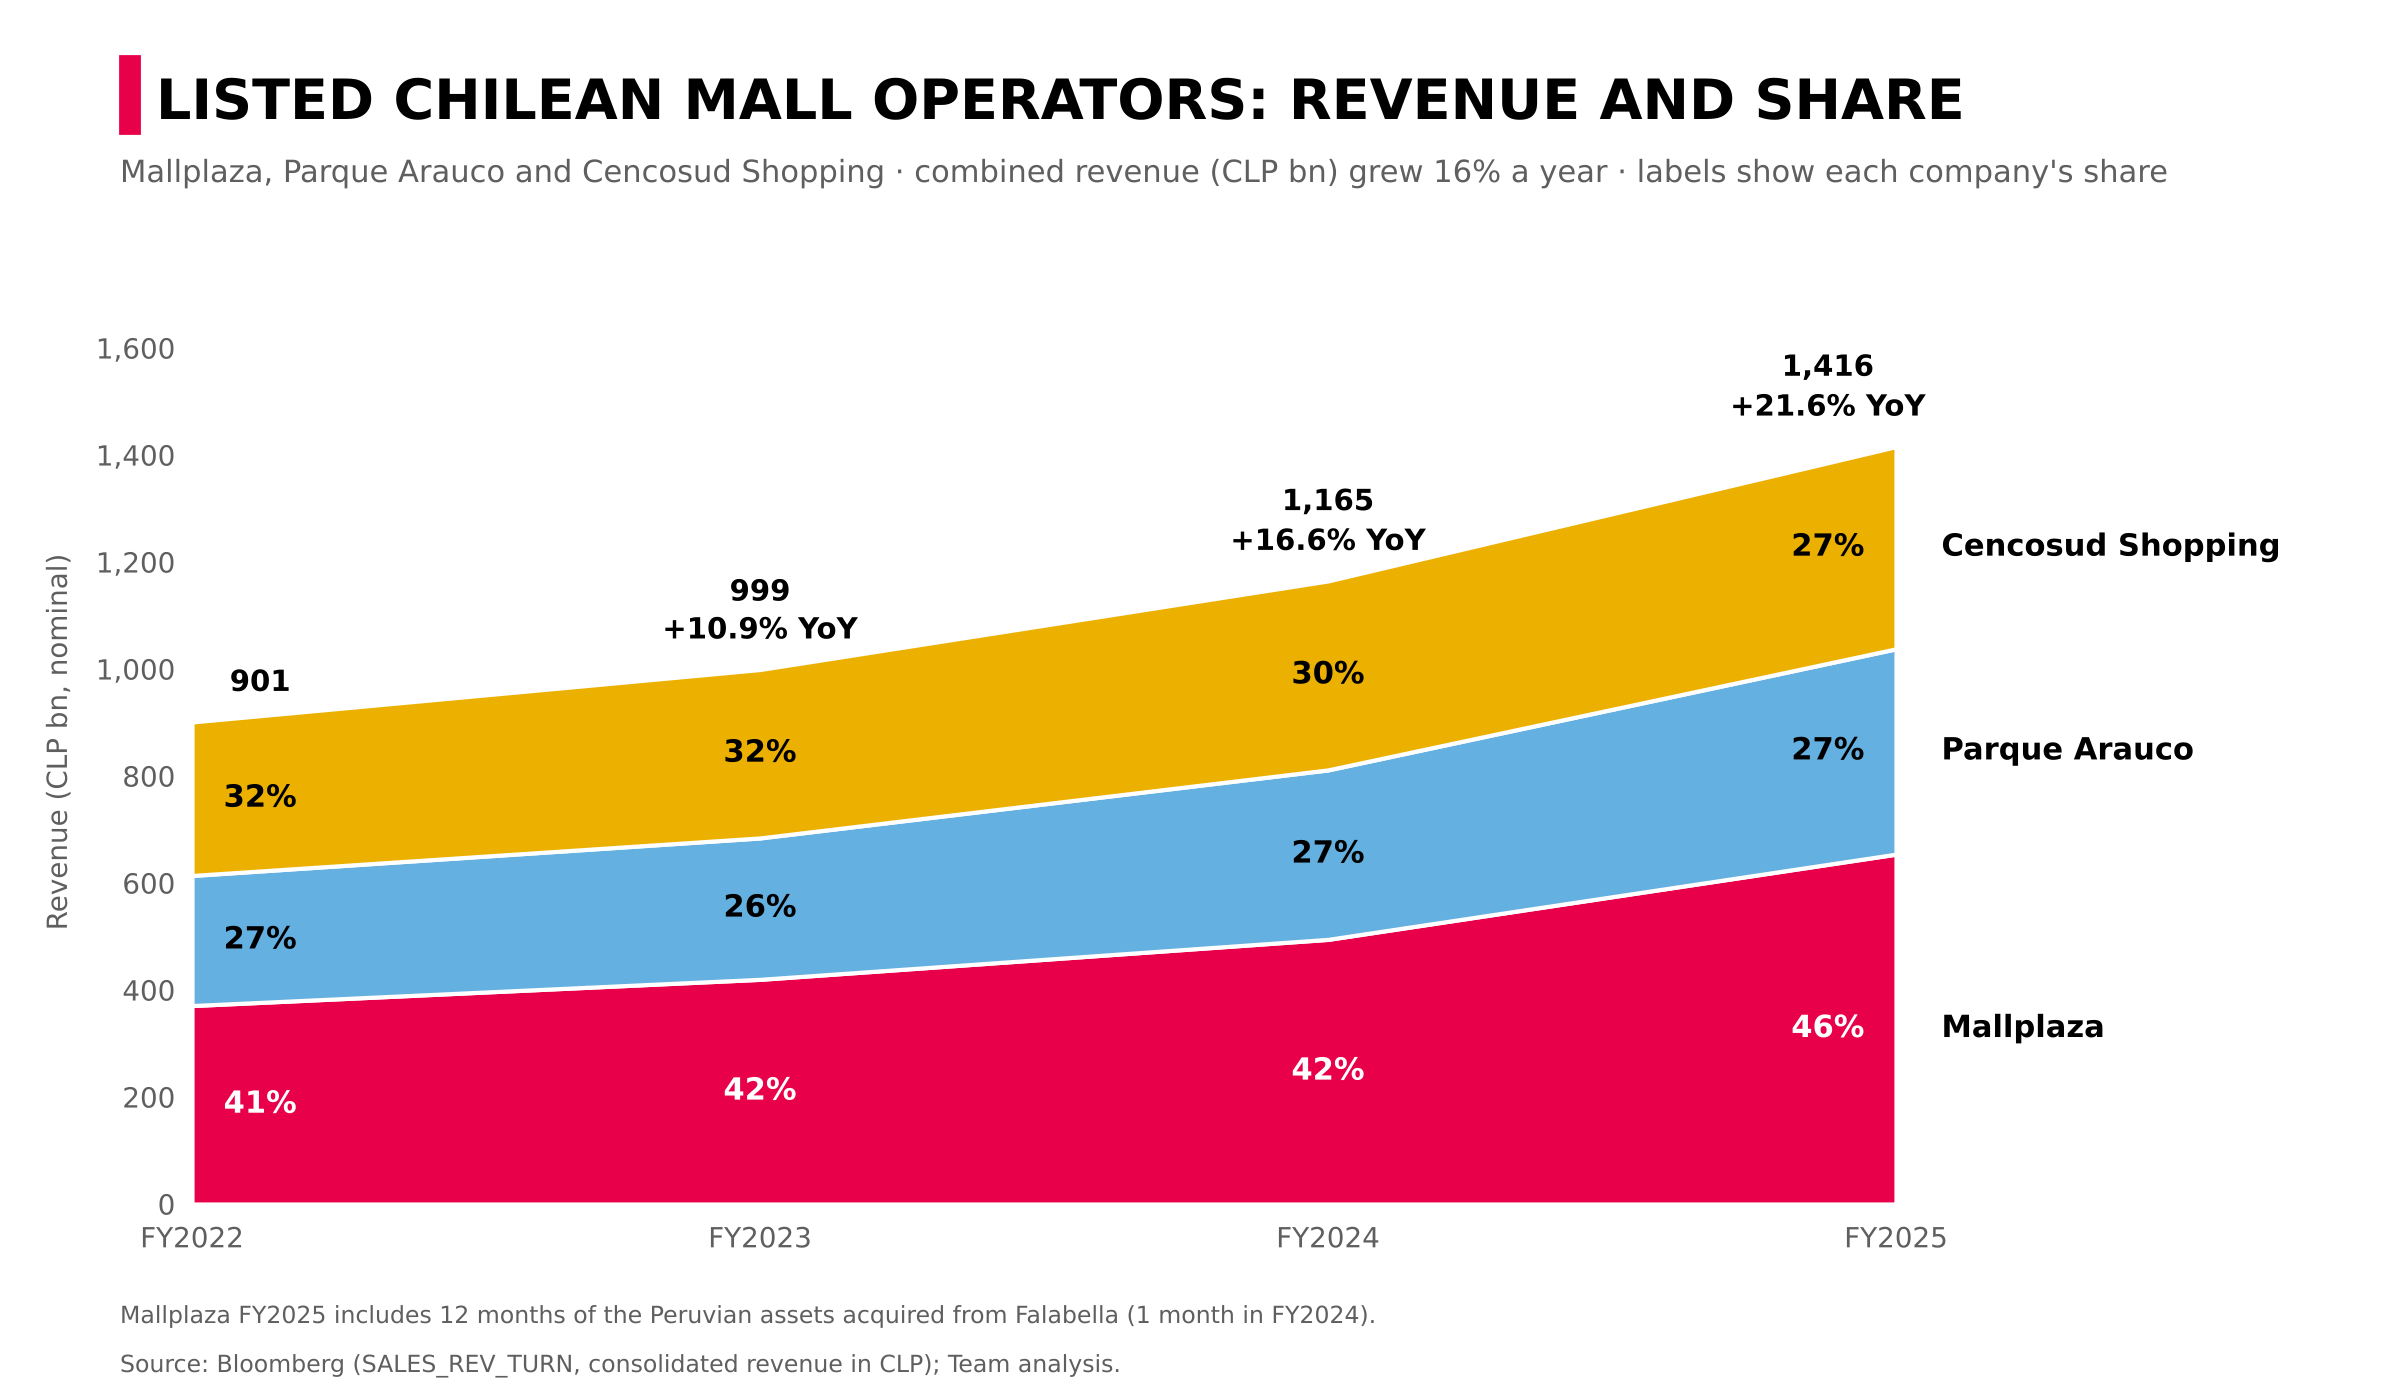
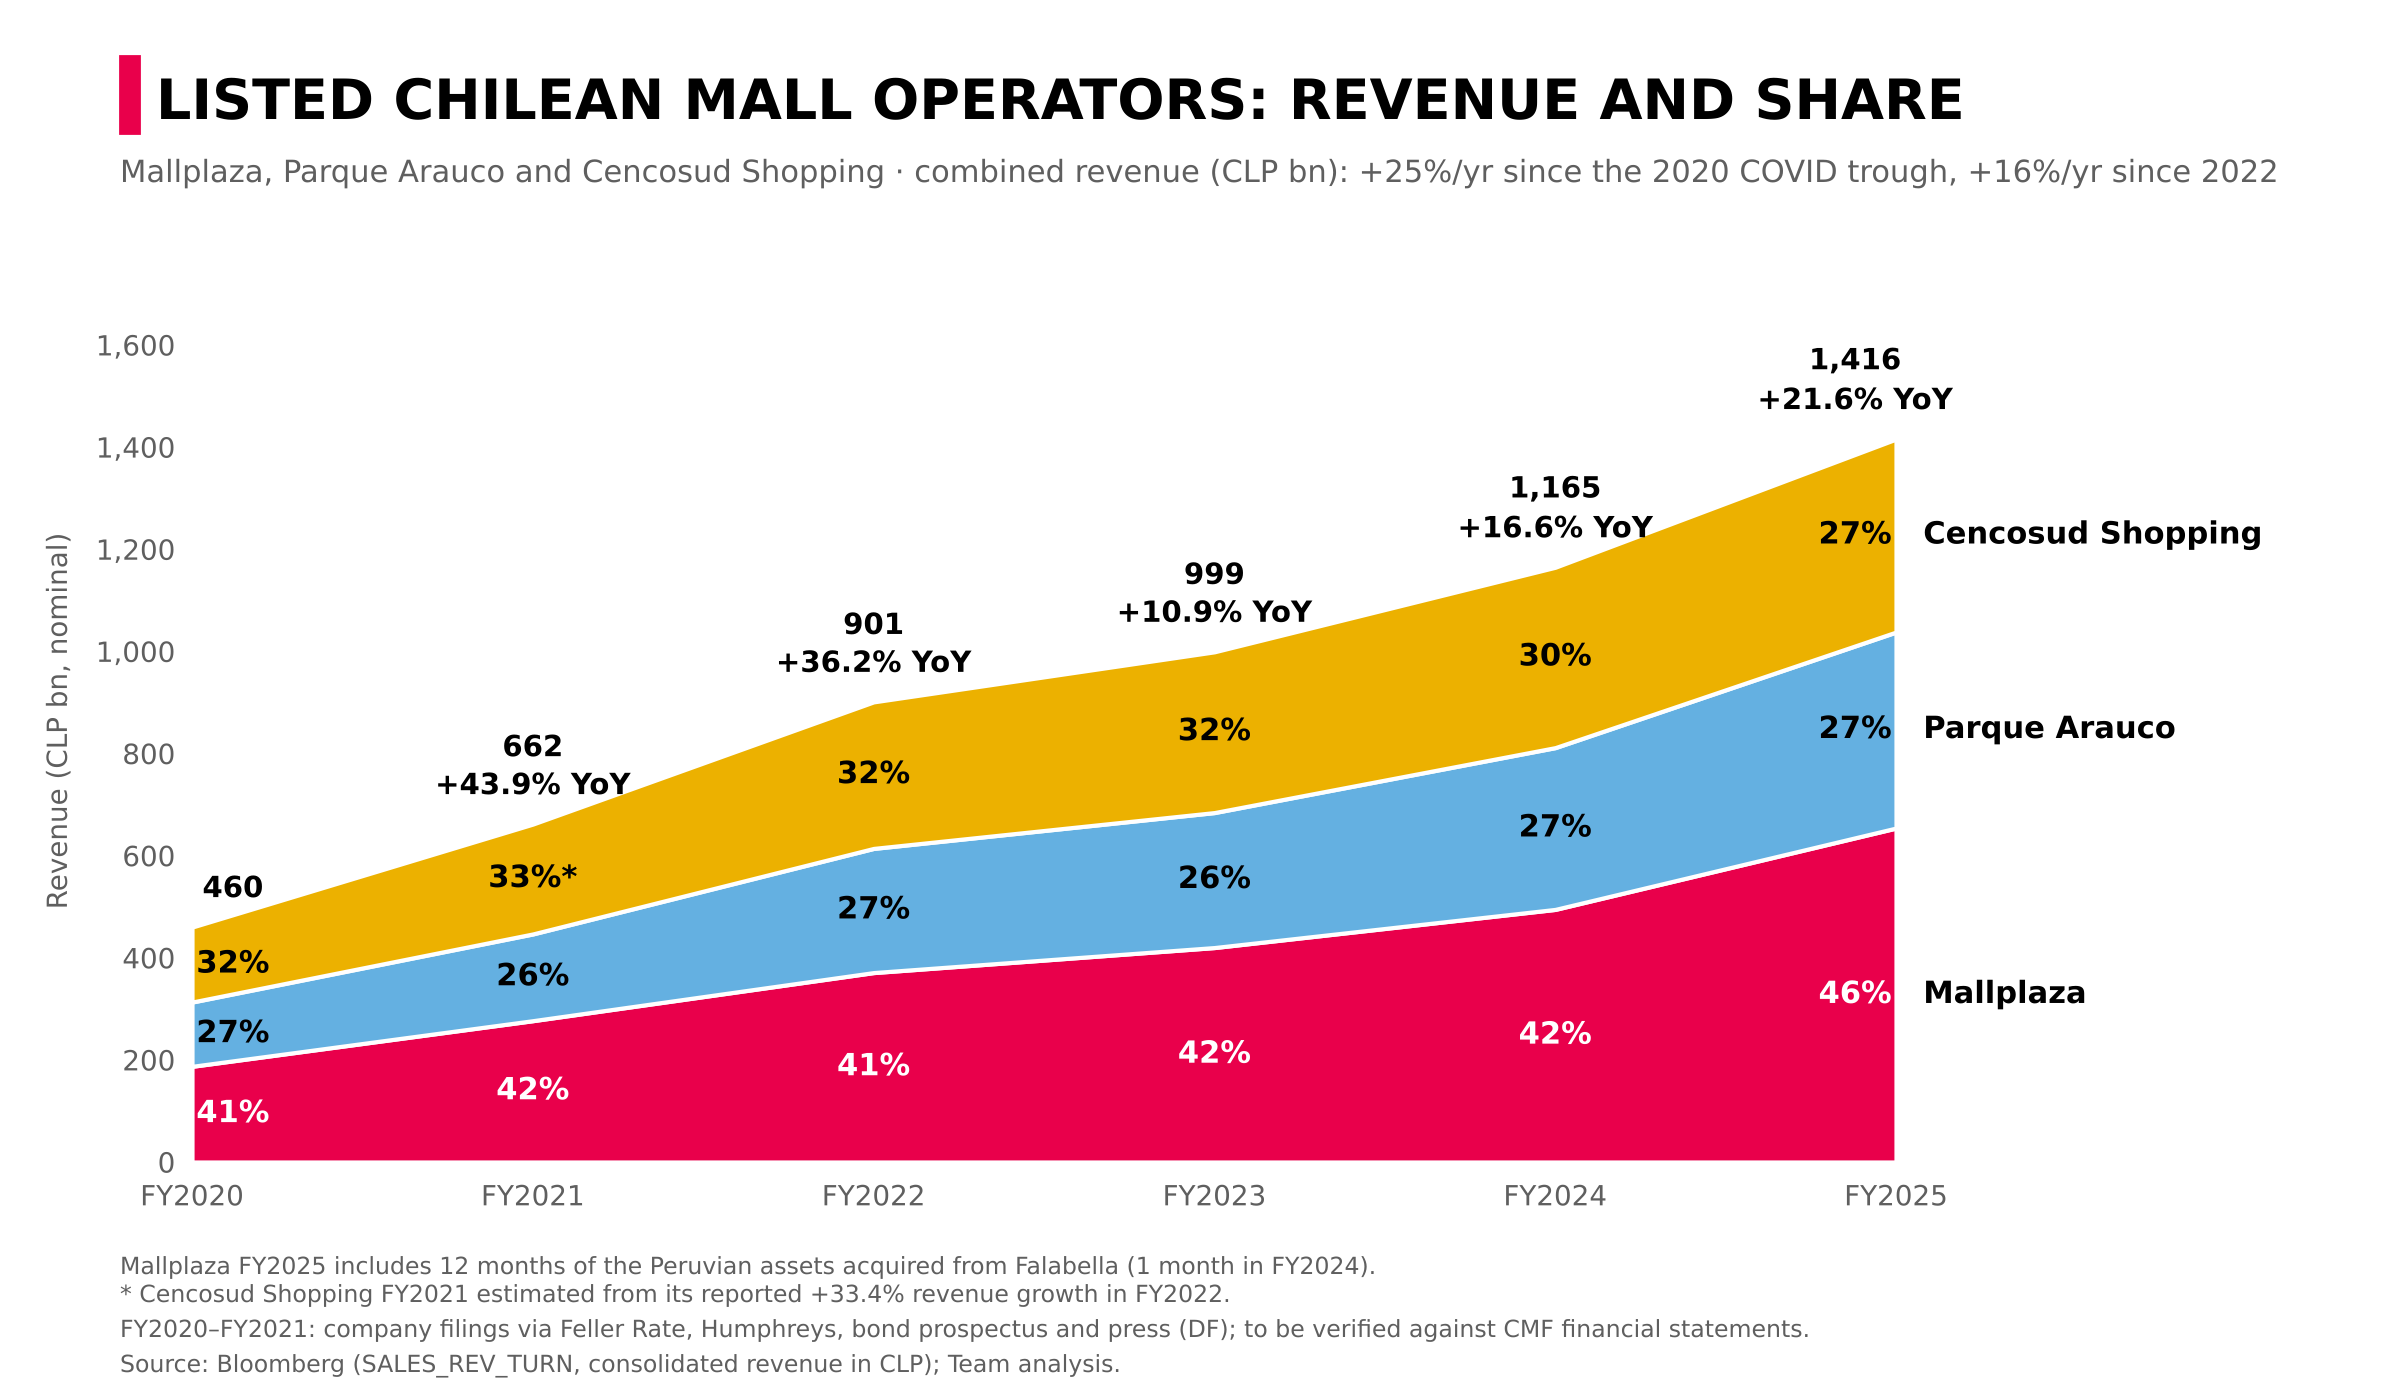
Extend mall operator revenue chart to FY2020-FY2021 with sourced public figures
Cencosud Shopping FY2021 is estimated from its reported FY2022 growth and flagged.

Claude-Session: https://claude.ai/code/session_0188QZHBkA8n5QL7BtmFakQg

diff --git a/graficos/cuota_mercado.py b/graficos/cuota_mercado.py
@@ -1,5 +1,6 @@
-"""Área apilada 100%: participación de Mallplaza, Parque Arauco y Cencosud Shopping en los
-ingresos combinados de los tres operadores listados chilenos (Bloomberg, FY2022–FY2025).
+"""Área apilada: ingresos combinados de Mallplaza, Parque Arauco y Cencosud Shopping y la
+participación de cada uno (FY2020–FY2025). FY2022–FY2025 de Bloomberg; FY2020–FY2021 de fuentes
+públicas (ver EXTERNOS).
 
 Uso:
     python graficos/cuota_mercado.py <Comparables_..._valoracion.xlsx> [salida.png]
@@ -16,6 +17,23 @@ from sensibilidad_wacc import AMARILLO, CELESTE, NEGRO, ROJO, TINTA_SECUNDARIA
 EMPRESAS = [("Mallplaza", ROJO, "white"), ("Parque Arauco", CELESTE, NEGRO),
             ("Cencosud Shopping", AMARILLO, NEGRO)]
 
+# Ingresos consolidados (MM CLP) que no están en el libro Bloomberg. Verificar contra los EEFF (CMF).
+EXTERNOS = {
+    "Mallplaza": {
+        2020: 187_329,  # Tabla de EERR IFRS en documento de bonos de Plaza S.A. (2019: 309.598; −39,5%)
+        2021: 276_695,  # Mallplaza_FA_Exhibits_v6.xlsx, Inputs rev21 (Bloomberg FA)
+    },
+    "Parque Arauco": {
+        2020: 125_852,  # Prensa (DF) citando reporte a la CMF; −38,8% vs 2019
+        2021: 169_859,  # Prensa (DF) citando reporte a la CMF; +35% vs 2020
+    },
+    "Cencosud Shopping": {
+        2020: 146_755,  # Feller Rate y Humphreys (−35,9% vs 2019: 228.990)
+        2021: round(286_949.855 / 1.334),  # Estimado: FY2022 (EEFF) / 1,334 (+33,4% informado en prensa)
+    },
+}
+ESTIMADOS = {("Cencosud Shopping", 2021)}
+
 
 def leer(ruta):
     ws = openpyxl.load_workbook(ruta, data_only=True)["Datos_BBG"]
@@ -24,6 +42,9 @@ def leer(ruta):
         nombre, periodo = ws.cell(r, 1).value, ws.cell(r, 6).value
         if nombre in dict((e[0], 1) for e in EMPRESAS) and str(periodo).startswith("FY"):
             ingresos.setdefault(nombre, {})[int(str(periodo)[2:6])] = ws.cell(r, 7).value
+    for nombre, datos in EXTERNOS.items():
+        for año, valor in datos.items():
+            ingresos[nombre].setdefault(año, valor)
     años = sorted(set.intersection(*(set(v) for v in ingresos.values())))
     return años, np.array([[ingresos[e[0]][a] for a in años] for e in EMPRESAS])
 
@@ -34,6 +55,7 @@ def graficar(ruta, salida):
 
     total = ing.sum(axis=0) / 1000  # MM CLP -> miles de millones (CLP bn)
     cagr = (total[-1] / total[0]) ** (1 / (len(años) - 1)) - 1
+    cagr_post = (total[-1] / total[años.index(2022)]) ** (1 / (años[-1] - 2022)) - 1
 
     plt.rcParams.update({"font.family": "DejaVu Sans", "font.size": 10})
     fig = plt.figure(figsize=(12, 7), dpi=200)
@@ -41,18 +63,19 @@ def graficar(ruta, salida):
     fig.add_artist(Rectangle((0.05, 0.905), 0.008, 0.055, color=ROJO, transform=fig.transFigure))
     fig.text(0.065, 0.915, "LISTED CHILEAN MALL OPERATORS: REVENUE AND SHARE", fontsize=20,
              fontweight="bold", color=NEGRO)
-    fig.text(0.05, 0.87, f"Mallplaza, Parque Arauco and Cencosud Shopping · combined revenue (CLP bn) "
-             f"grew {cagr:.0%} a year · labels show each company's share",
+    fig.text(0.05, 0.87, f"Mallplaza, Parque Arauco and Cencosud Shopping · combined revenue (CLP bn): "
+             f"+{cagr:.0%}/yr since the 2020 COVID trough, +{cagr_post:.0%}/yr since 2022",
              fontsize=11, color=TINTA_SECUNDARIA)
 
-    ax = fig.add_axes([0.08, 0.14, 0.71, 0.66])
+    ax = fig.add_axes([0.08, 0.17, 0.71, 0.63])
     capas = ing / 1000
     ax.stackplot(años, capas, colors=[e[1] for e in EMPRESAS], edgecolor="white", linewidth=1.5)
     base = np.zeros(len(años))
     for (nombre, color, texto), fila, cuota_fila in zip(EMPRESAS, capas, cuota):
         for x, b, v, c in zip(años, base, fila, cuota_fila):
             dx = 0.12 if x == años[0] else -0.12 if x == años[-1] else 0
-            ax.text(x + dx, b + v / 2, f"{c:.0%}", ha="center", va="center", fontsize=11,
+            marca = "*" if (nombre, x) in ESTIMADOS else ""
+            ax.text(x + dx, b + v / 2, f"{c:.0%}{marca}", ha="center", va="center", fontsize=11,
                     fontweight="bold", color=texto)
         ax.text(años[-1] + 0.08, base[-1] + fila[-1] / 2, nombre, ha="left", va="center",
                 fontsize=11, fontweight="bold", color=NEGRO)
@@ -74,8 +97,13 @@ def graficar(ruta, salida):
     for lado in ax.spines.values():
         lado.set_visible(False)
 
-    fig.text(0.05, 0.055, "Mallplaza FY2025 includes 12 months of the Peruvian assets acquired from "
+    fig.text(0.05, 0.09, "Mallplaza FY2025 includes 12 months of the Peruvian assets acquired from "
              "Falabella (1 month in FY2024).", fontsize=8.5, color=TINTA_SECUNDARIA)
+    fig.text(0.05, 0.07, "* Cencosud Shopping FY2021 estimated from its reported +33.4% revenue growth "
+             "in FY2022.", fontsize=8.5, color=TINTA_SECUNDARIA)
+    fig.text(0.05, 0.045, "FY2020–FY2021: company filings via Feller Rate, Humphreys, bond prospectus "
+             "and press (DF); to be verified against CMF financial statements.", fontsize=8.5,
+             color=TINTA_SECUNDARIA)
     fig.text(0.05, 0.02, "Source: Bloomberg (SALES_REV_TURN, consolidated revenue in CLP); Team "
              "analysis.", fontsize=8.5, color=TINTA_SECUNDARIA)
     fig.savefig(salida, facecolor="white")
